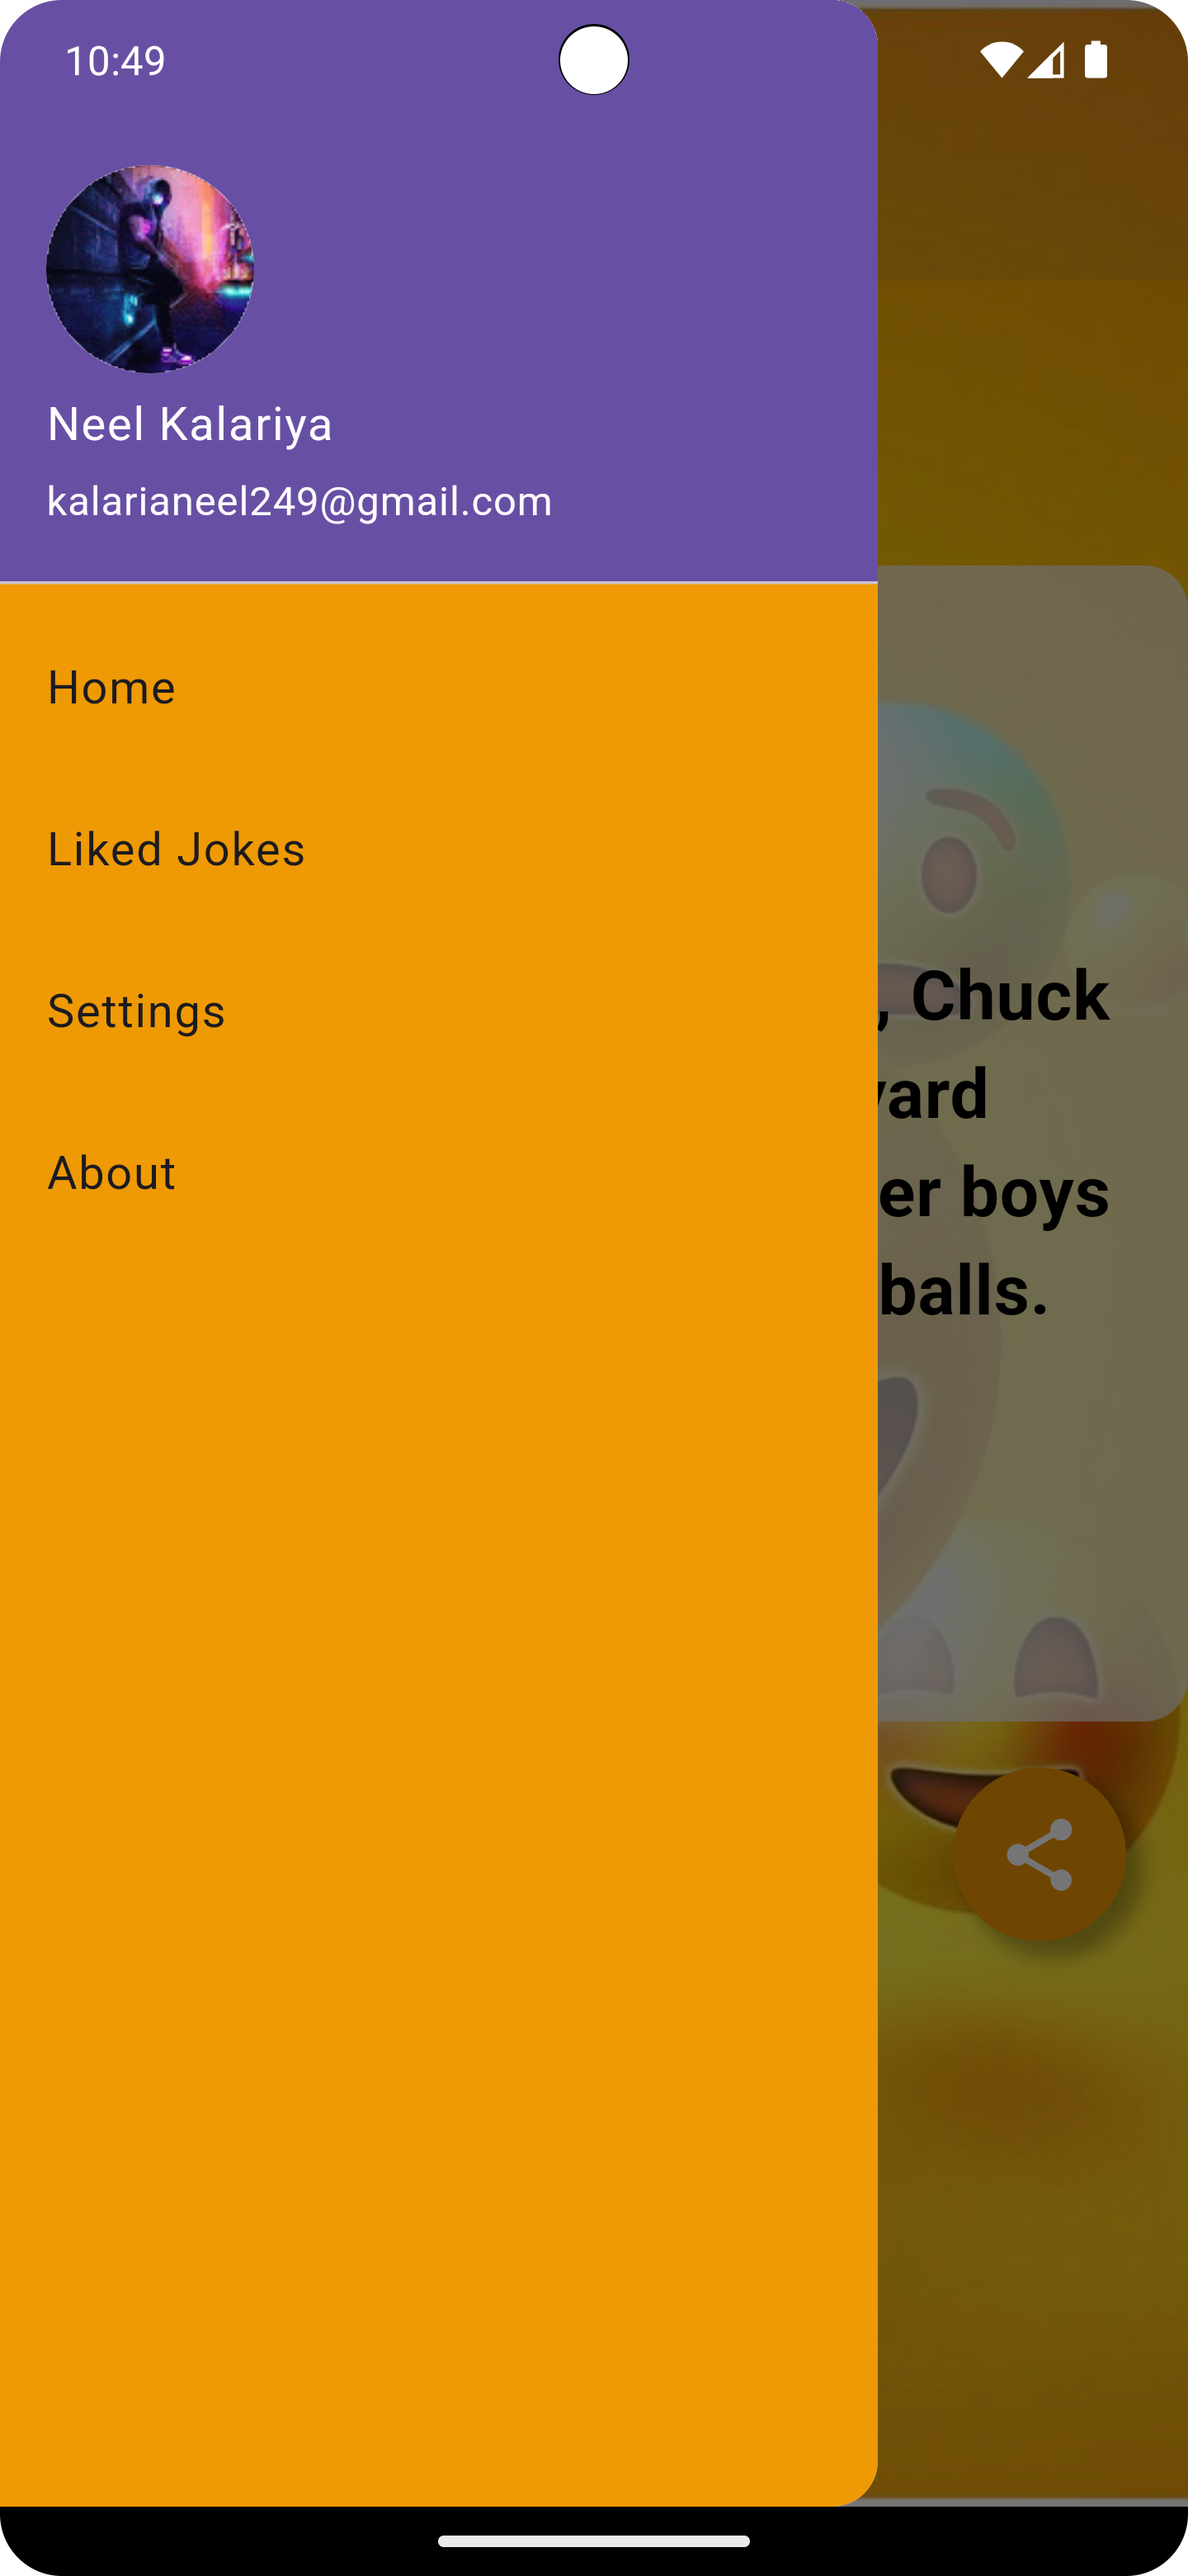
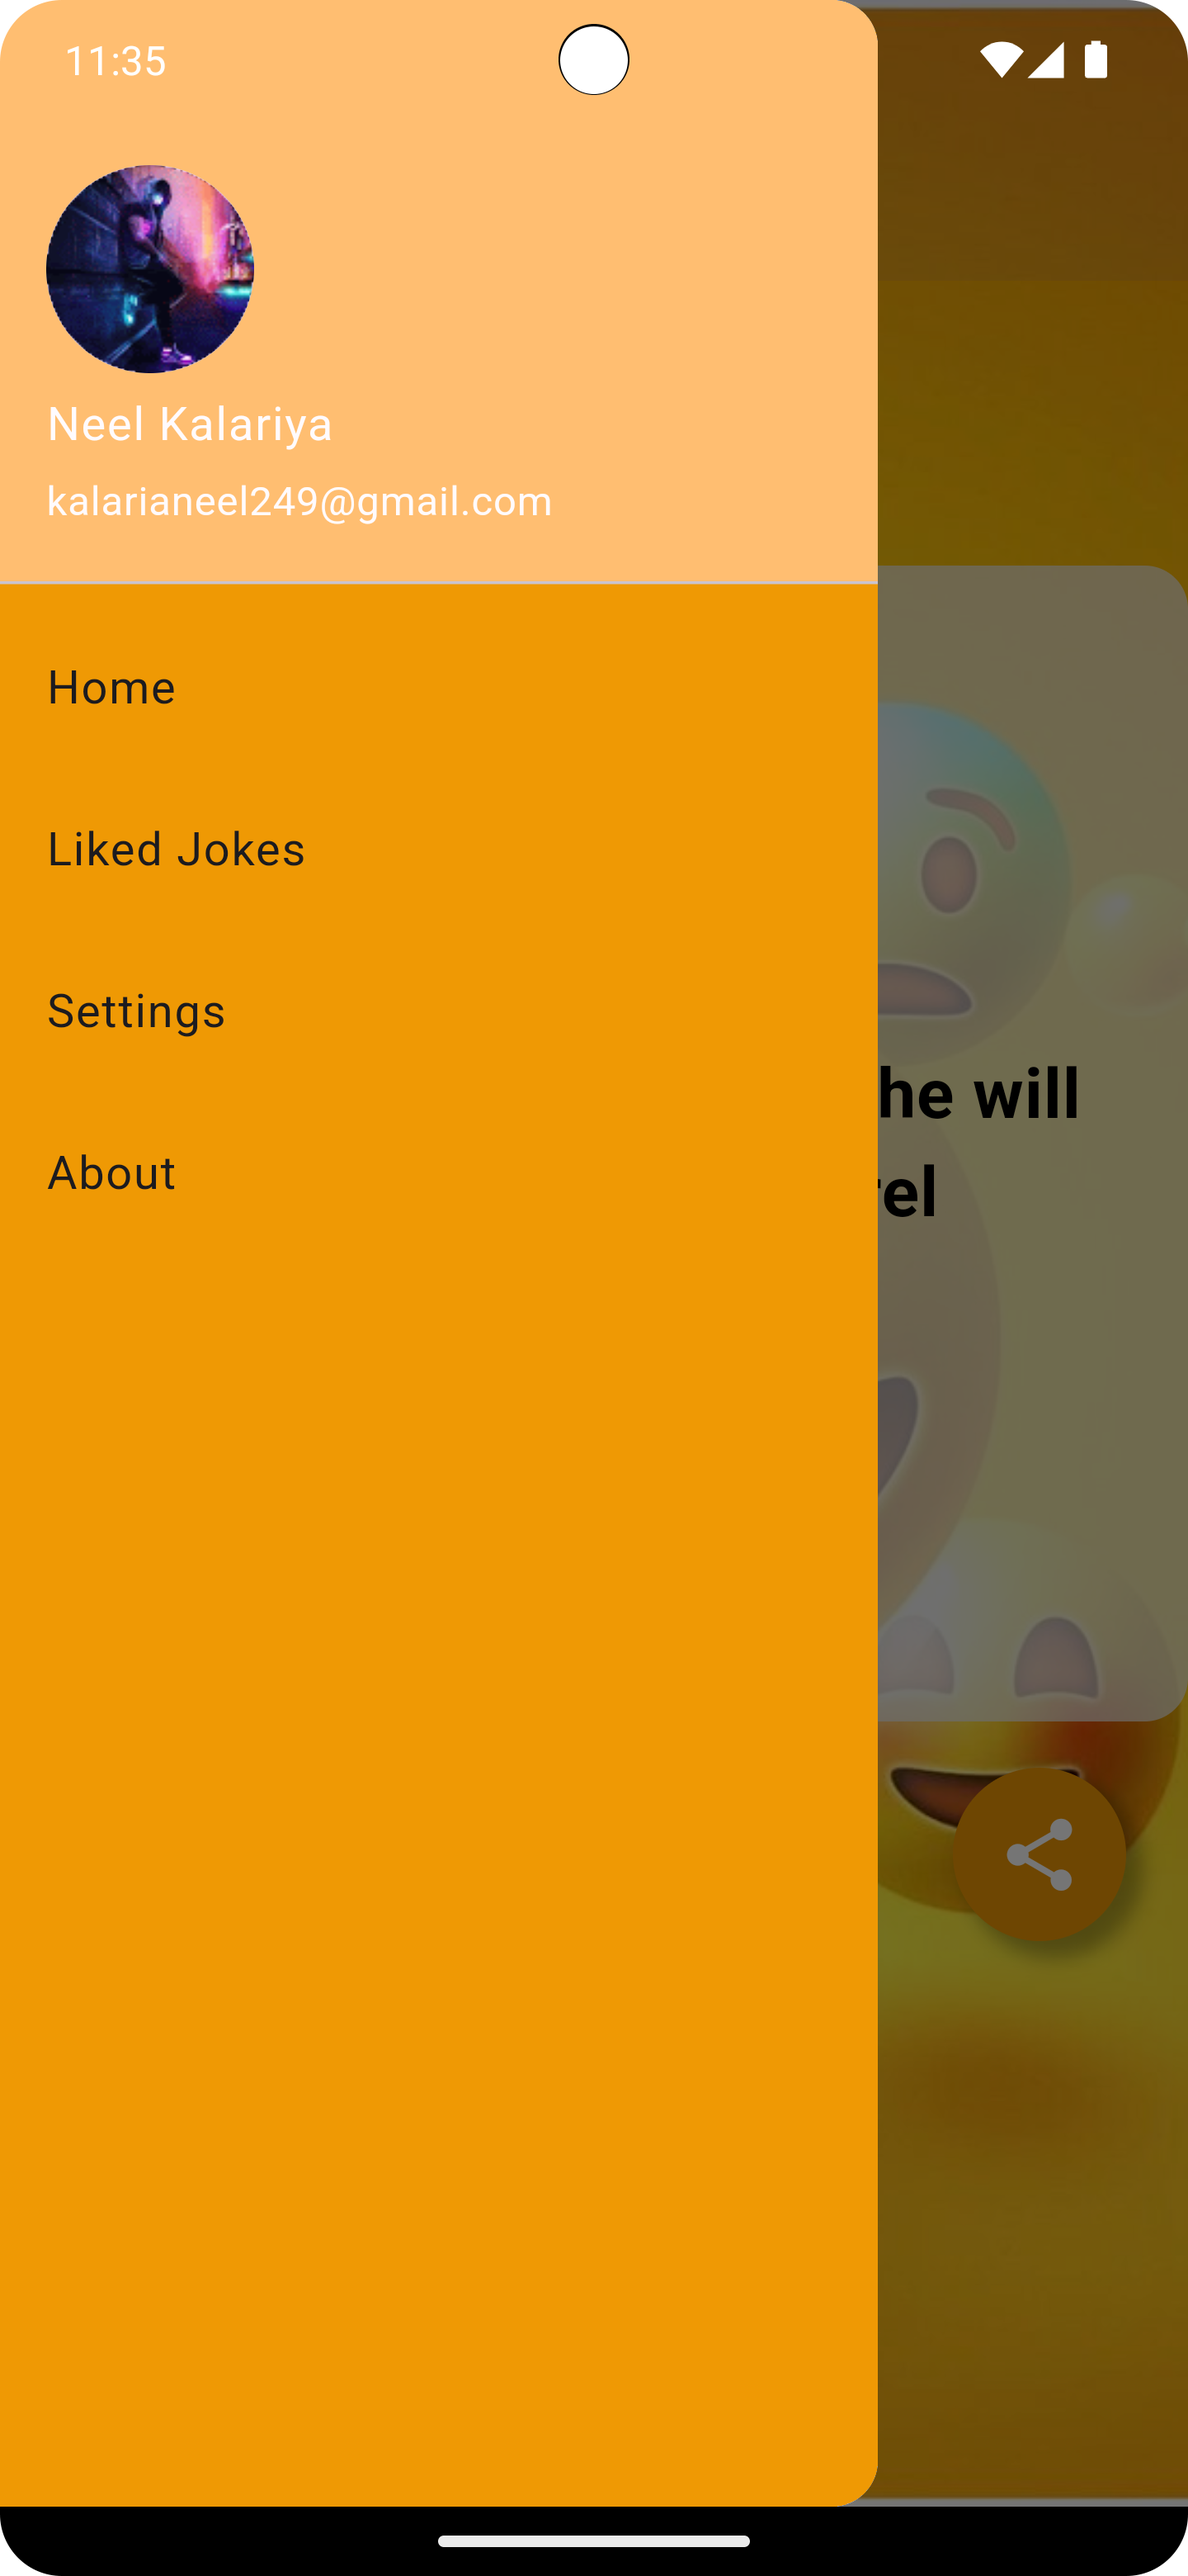
Color changes

Changed region(s): [[0.0, 0.0, 0.75, 0.2487], [0.7188, 0.3731, 0.9375, 0.5285]]

diff --git a/lib/views/Home Page/homepage.dart b/lib/views/Home Page/homepage.dart
@@ -44,6 +44,9 @@ class HomePage extends StatelessWidget {
                     "https://lh3.googleusercontent.com/a/ACg8ocIbB3Msrb90avMuPrxnRp0gI_9YGwHGiVVr-XrzR55l7w=s96-c-rg-br100",
                   ),
                 ),
+                decoration: BoxDecoration(
+                  color: Color(0xFFFFBE71),
+                ),
               ),
               ListTile(
                 title: const Text("Home"),
